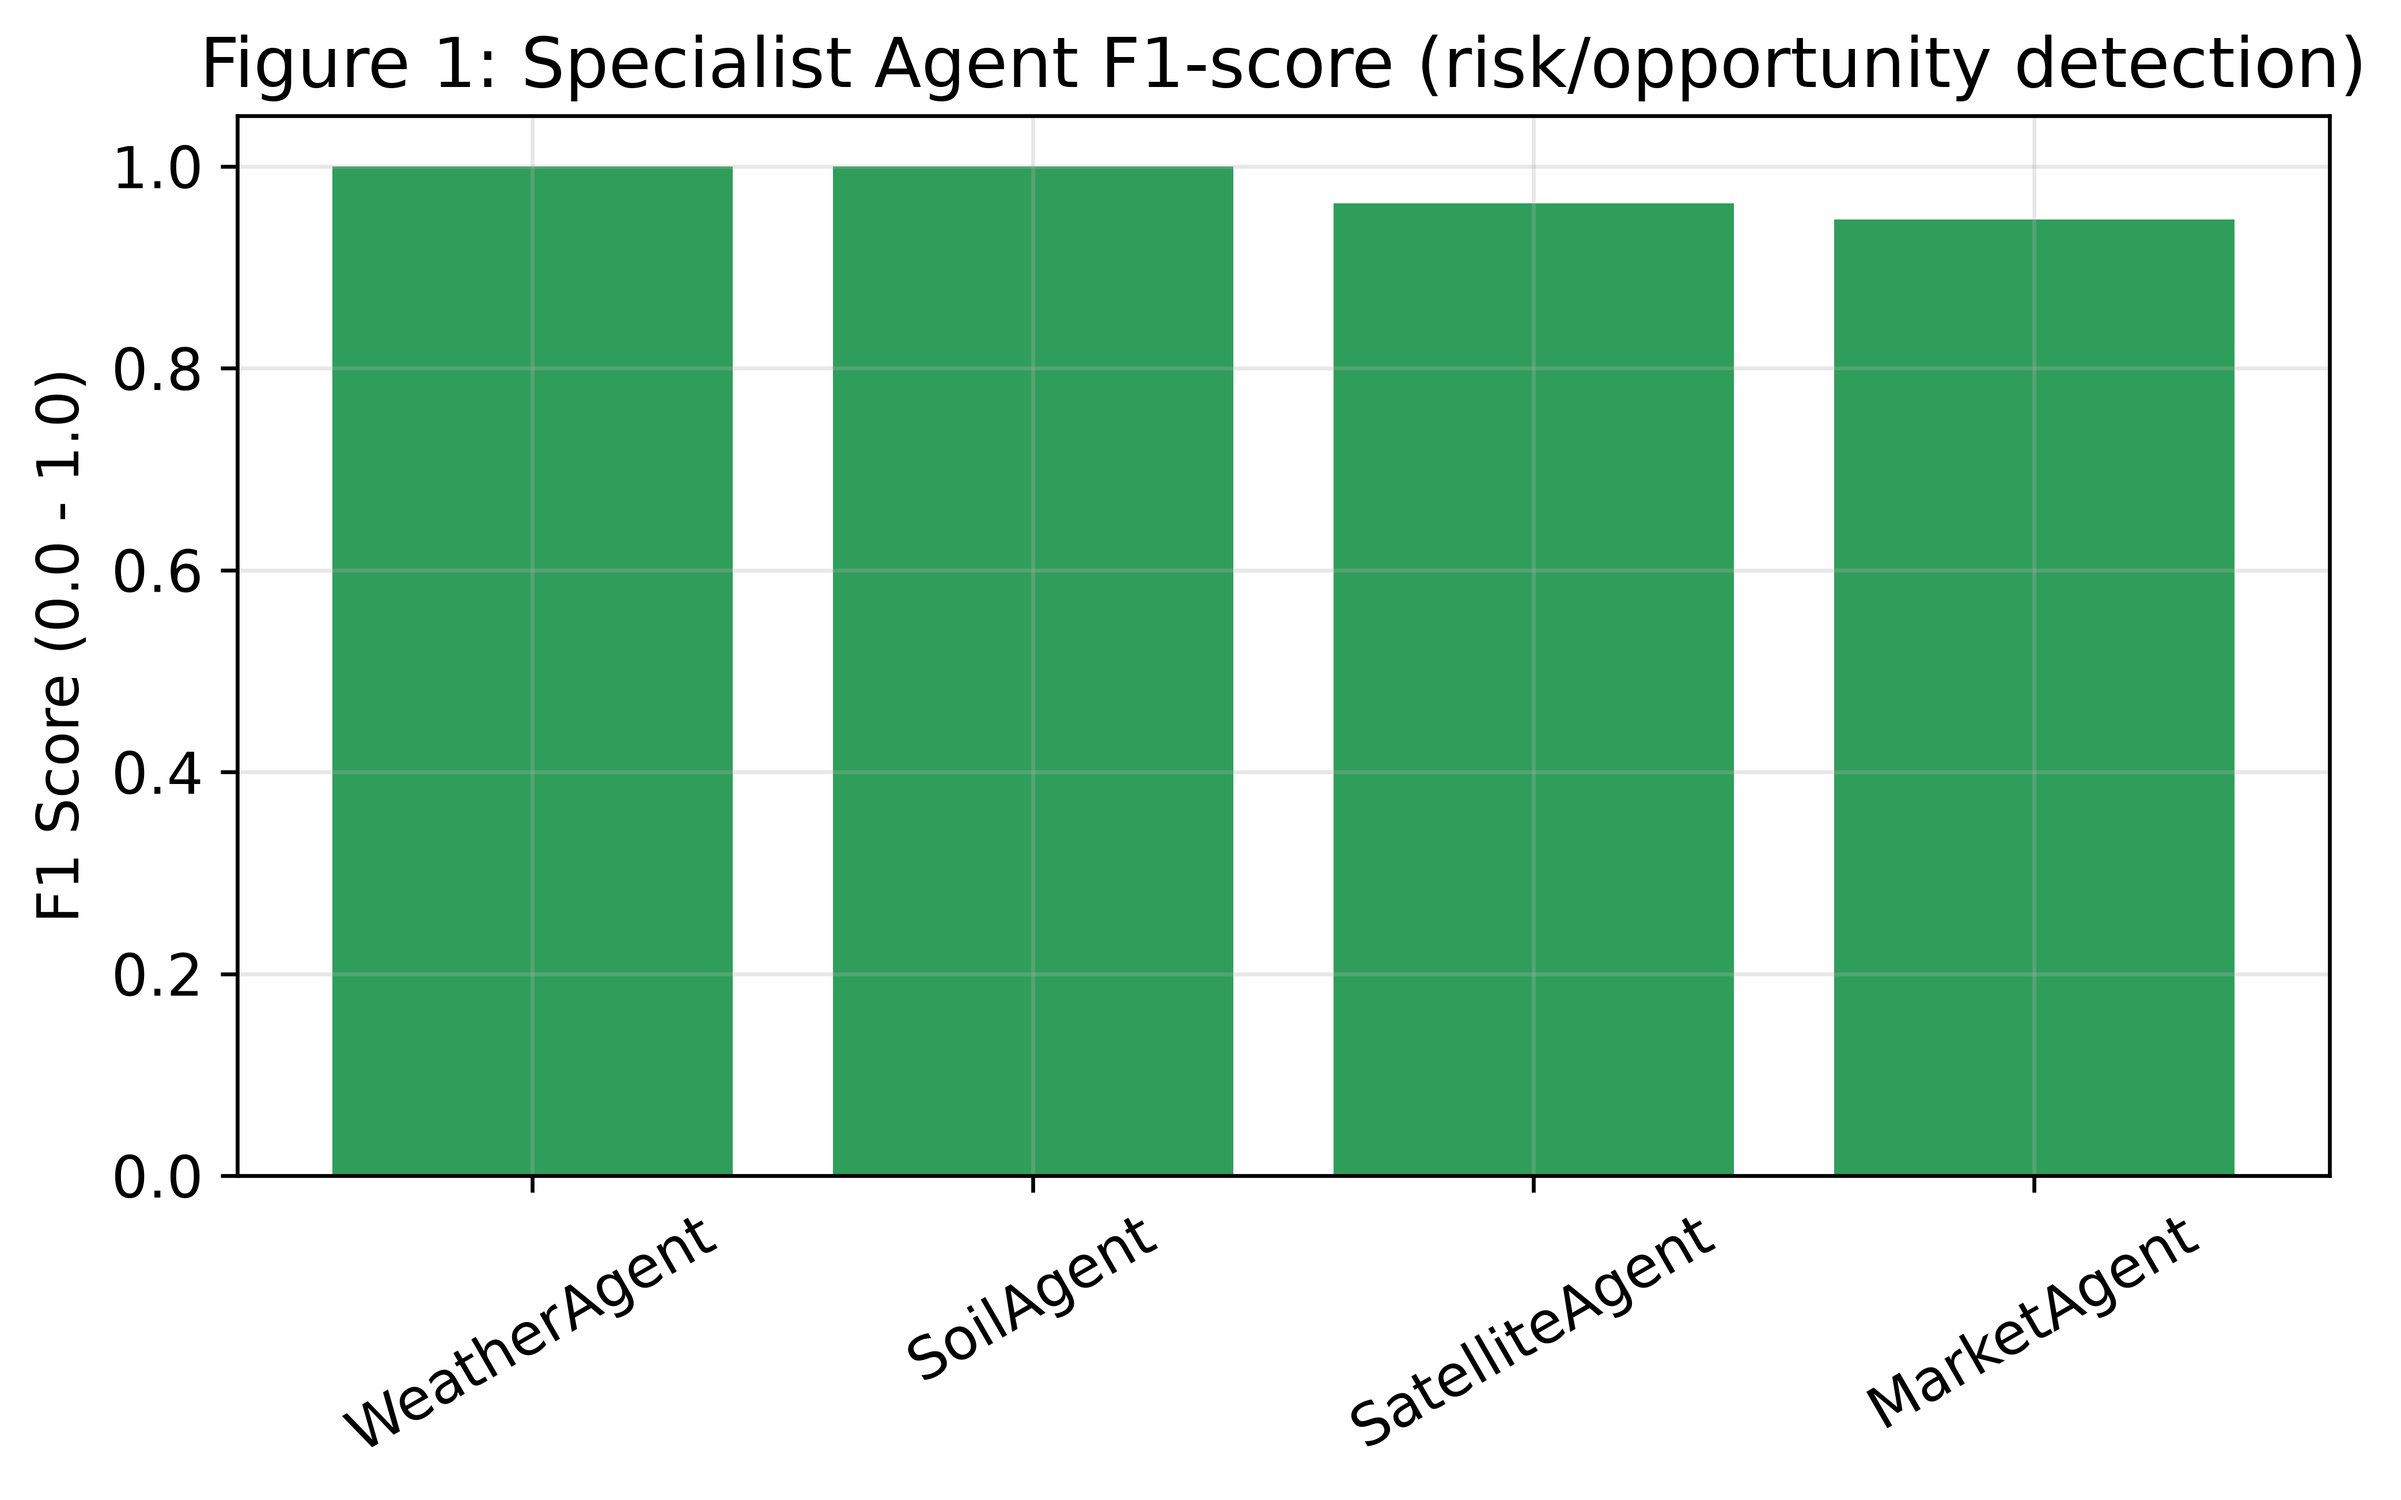
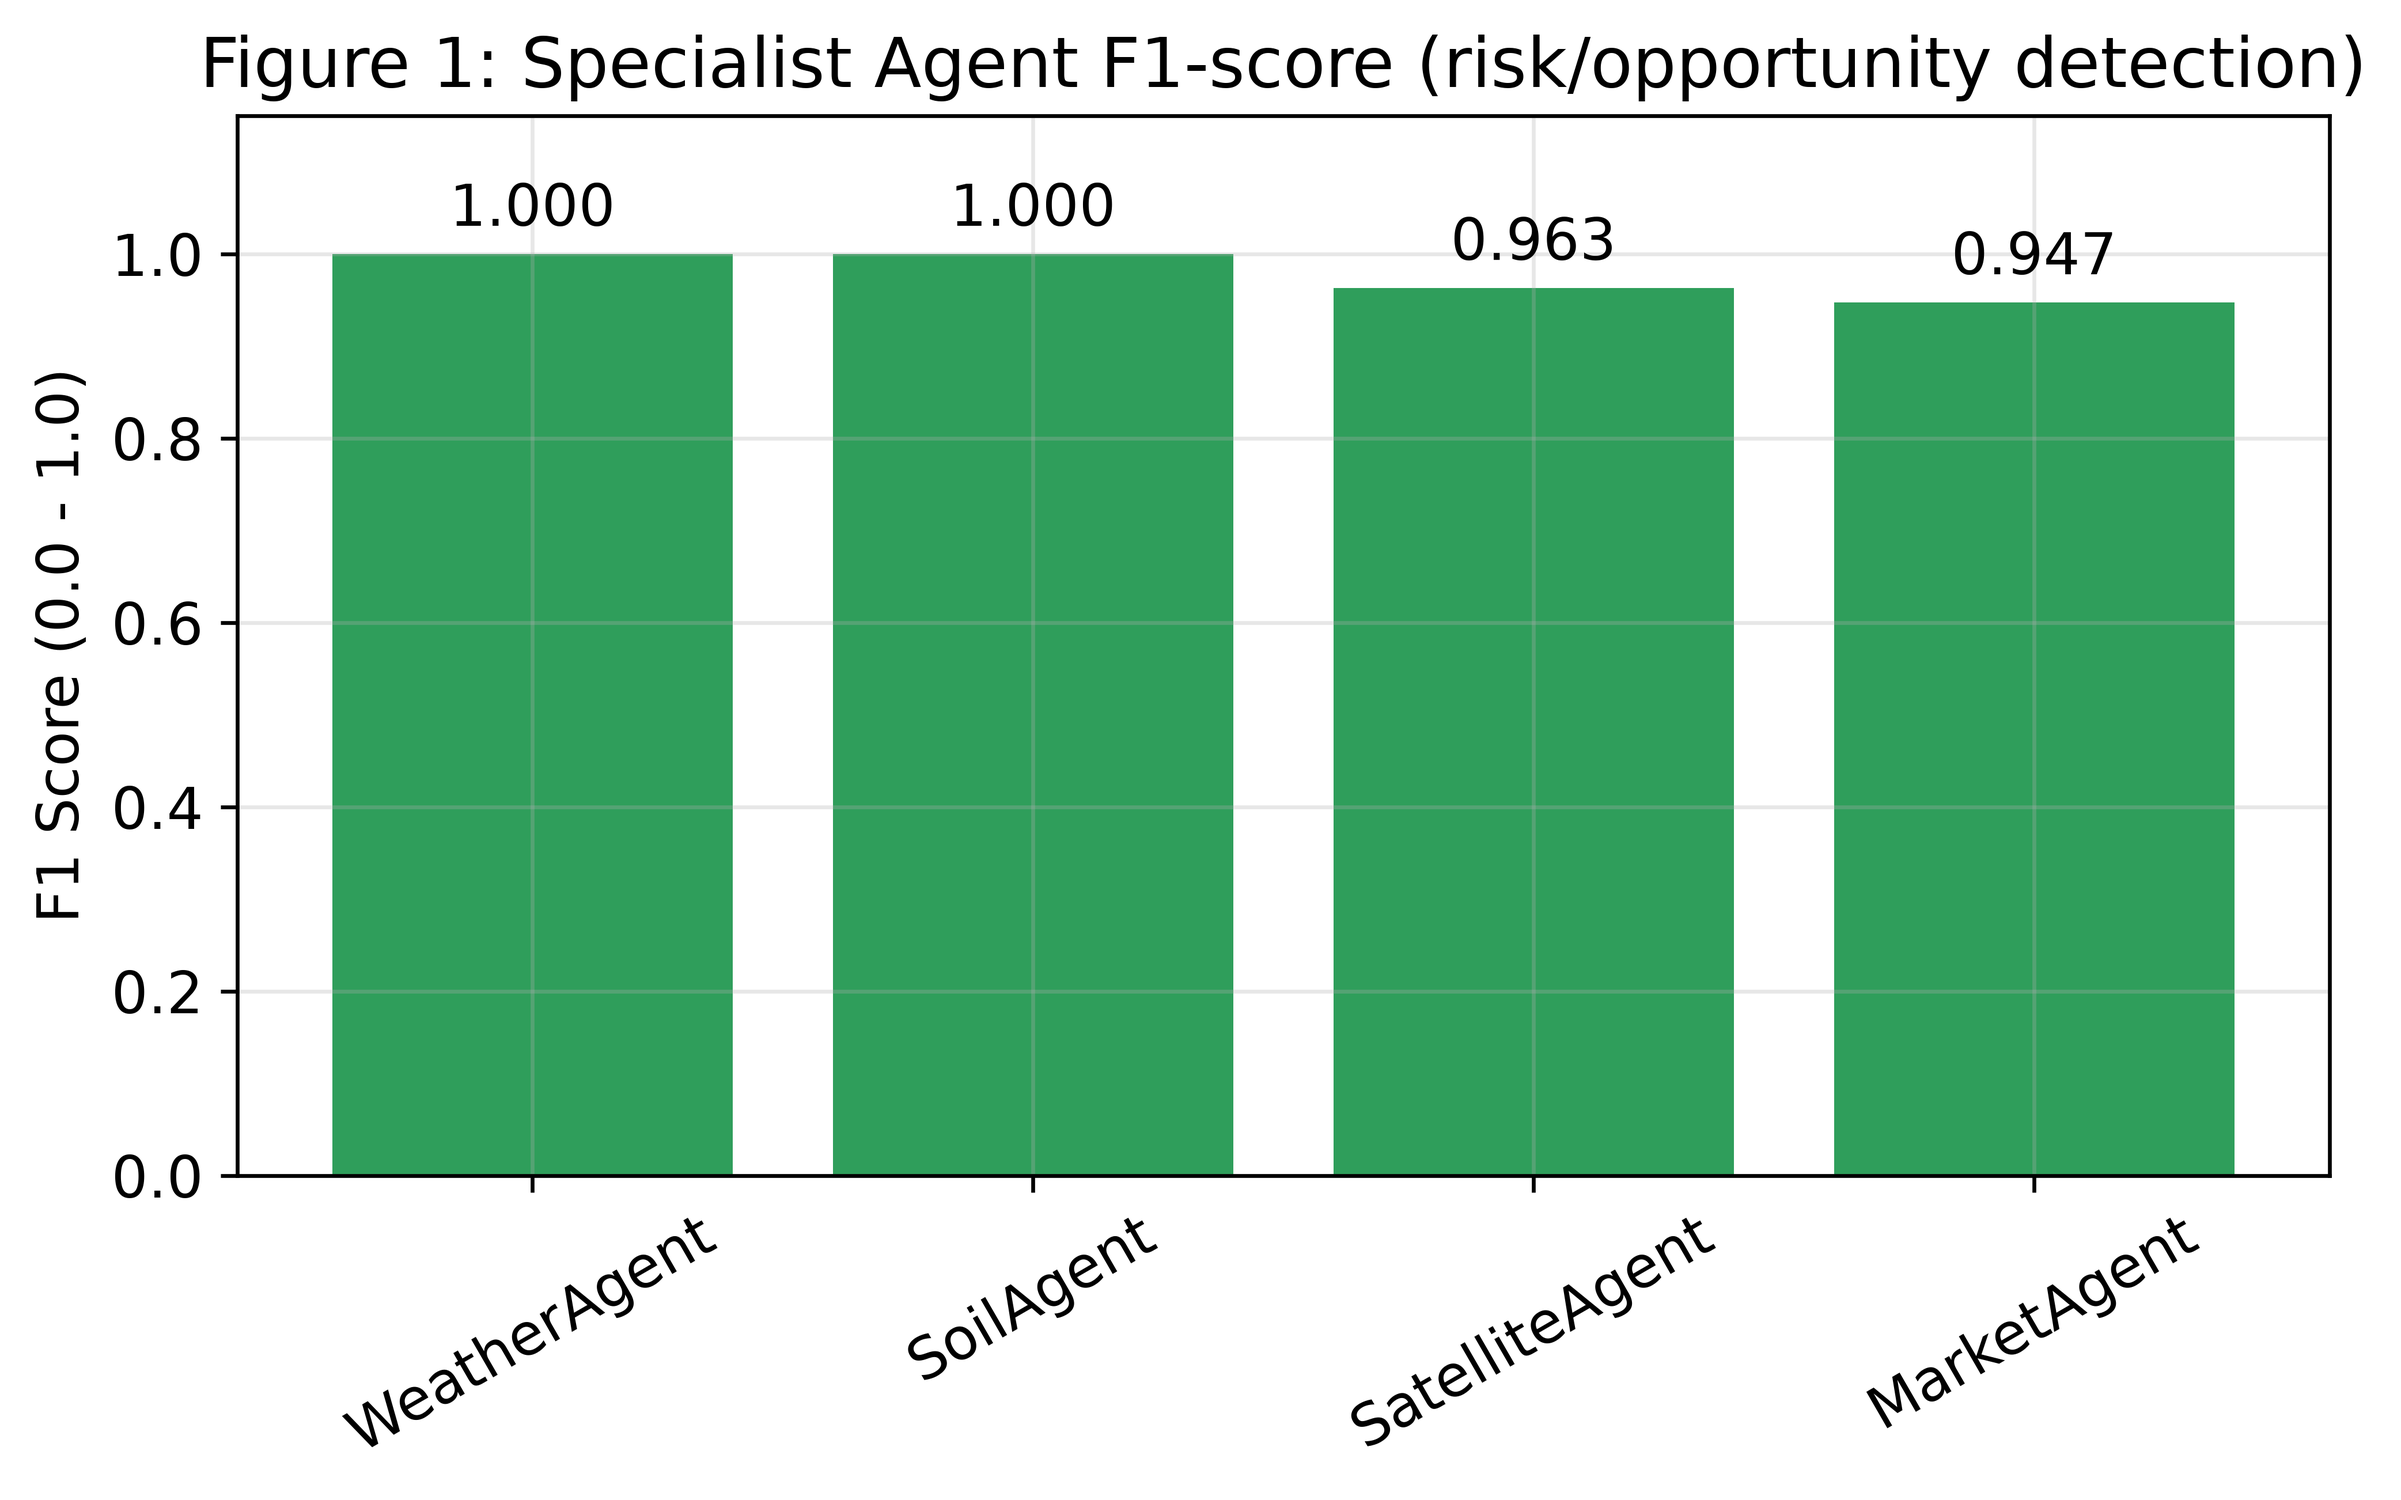
Restructure Section 4.2 into subsections, revise Table 4, add value labels to all bar charts, fix Figure 6 legend overlap, add failures table
- Section 4.2 (crop knowledge, acquisition, context fusion) split into
  4.2.1/4.2.2/4.2.3, one subsubsection per stage.
- Table 4 (ablation): removed Task Success column (100.0% for every
  condition per Table 1, no discriminative value across conditions);
  replaced with Mean Specialists Run, computed directly from the raw
  N=105 result files (1.00 / 3.07 / 3.10 / 3.11), which ties directly
  to the section's own "architecture drives the result" argument.
- All four bar charts (Figures 1, 2, 4, and 6/trust-calibration) now
  show the exact value above every bar via ax.bar_label().
- Figure 6's legend, which previously overlapped the tallest bars,
  moved inside extra headroom (ylim raised to 1.45, bars top out at
  1.0) rather than placed outside the axes, which collided with the
  title on the first attempt -- verified by an actual compile both
  times, not just visually assumed.
- Added Table 5 (tab:failures): the nine genuine (non-probe) wrong
  decisions at N=105, grouped by the three failure patterns Section
  6.4's prose already discusses, re-verified against the raw results
  before writing.

Verified via an actual tectonic compile: 26 pages, zero errors, zero
unresolved references/citations, 33/33 labels and 18/18 citations
resolve.

diff --git a/paper/Manuscript.tex b/paper/Manuscript.tex
@@ -520,6 +520,8 @@ pre-execution gate and a post-execution posterior update.}
 
 \subsection{Stage 1--3: crop knowledge, acquisition and context fusion}
 
+\subsubsection{Stage 1: crop knowledge}
+
 Stage 1 resolves a crop profile $P_c$ containing agronomic thresholds:
 optimal temperature, humidity, rainfall and soil pH ranges; NDVI/NDWI
 health thresholds; preferred texture, nitrogen and organic carbon levels.
@@ -527,8 +529,14 @@ Profiles are synthesised once by a language model against a fixed schema,
 validated against a canonical default, and cached in SQLite and JSON, so
 the cost is paid once per crop rather than once per request.
 
+\subsubsection{Stage 2: data acquisition}
+
 Stage 2 invokes the five collectors of Table~\ref{tab:sources}, each
-independently exception-isolated. Stage 3 merges their outputs into a
+independently exception-isolated.
+
+\subsubsection{Stage 3: context fusion}
+
+Stage 3 merges the five collectors' outputs into a
 single context $x$ deterministically---no language model participates---and
 computes an unweighted mean confidence over the sources that returned data.
 
@@ -724,17 +732,17 @@ corrected figures.
 
 \begin{table}[H]
 \centering
-\caption{Ablation across four architectural conditions on identical fixtures, all four now run on the full $N=105$ benchmark used throughout this paper. An earlier version of this study reported the ablation on an archived ten-scenario ($N=10$) run predating the dataset expansion; this table replaces it and is internally consistent with Table~\ref{tab:overall}. Recommendation quality is LLM-judged and was evaluated for condition 4 only this round (see text); it is reported as not available (N/A) rather than estimated for conditions 1--3.}
+\caption{Ablation across four architectural conditions on identical fixtures, all four now run on the full $N=105$ benchmark used throughout this paper. An earlier version of this study reported the ablation on an archived ten-scenario ($N=10$) run predating the dataset expansion; this table replaces it and is internally consistent with Table~\ref{tab:overall}. Mean specialists run counts specialist agents that actually completed per scenario (out of five), averaged over the benchmark; task success is omitted here as every condition reached 100.0\% (Table~\ref{tab:overall}), which carries no discriminative information across conditions. Recommendation quality is LLM-judged and was evaluated for condition 4 only this round (see text); it is reported as not available (N/A) rather than estimated for conditions 1--3.}
 \label{tab:ablation}
 \adjustbox{max width=\textwidth}{%
 \begin{tabular}{@{}lcccc@{}}
 \toprule
-\textbf{Condition} & \textbf{Task success} & \textbf{Rule-consist.} & \textbf{Rec.\ quality (1--5)} & \textbf{Mean latency (s)} \\
+\textbf{Condition} & \textbf{Mean specialists run} & \textbf{Rule-consist.} & \textbf{Rec.\ quality (1--5)} & \textbf{Mean latency (s)} \\
 \midrule
-1. Single agent, no fusion & 100.0\% & 13.3\% & N/A & 34.8 \\
-2. Multi-agent, deterministic merge & 100.0\% & 80.0\% & N/A & 88.2 \\
-3. Multi-agent + collaborative reasoning & 100.0\% & 81.9\% & N/A & 154.9 \\
-4. Full system + TRUSTAI & 100.0\% & 84.8\% & 3.86 & 215.7 \\
+1. Single agent, no fusion & 1.00 & 13.3\% & N/A & 34.8 \\
+2. Multi-agent, deterministic merge & 3.07 & 80.0\% & N/A & 88.2 \\
+3. Multi-agent + collaborative reasoning & 3.10 & 81.9\% & N/A & 154.9 \\
+4. Full system + TRUSTAI & 3.11 & 84.8\% & 3.86 & 215.7 \\
 \bottomrule
 \end{tabular}
 }
@@ -973,7 +981,35 @@ because \texttt{infer\_decision} has no pH branch and cannot express the
 correct answer. This is a known and documented gap, which is why the
 rate is reported both with and without such probes. The remaining nine
 are genuine defects, and --- as at $N=11$ --- they are not randomly
-distributed.
+distributed. Table~\ref{tab:failures} lists all nine, grouped by the
+three failure patterns discussed below.
+
+\begin{table}[H]
+\centering
+\caption{The nine genuine (non-probe) wrong decisions at $N=105$, grouped by failure pattern. None have been fixed in the codebase evaluated here.}
+\label{tab:failures}
+\adjustbox{max width=\textwidth}{%
+\begin{tabular}{@{}lp{6.0cm}p{3.4cm}p{3.4cm}@{}}
+\toprule
+\textbf{Pattern} & \textbf{Scenario} & \textbf{Ground truth} & \textbf{Actual decision} \\
+\midrule
+\multirow{5}{*}{Vegetation-detection defect}
+ & vegetation\_critical\_suitability\_cotton & Field Inspection & Immediate Irrigation \\
+ & vegetation\_critical\_suitability\_mango & Field Inspection & Continue Monitoring \\
+ & vegetation\_critical\_suitability\_orange & Field Inspection & Continue Monitoring \\
+ & vegetation\_critical\_suitability\_rice & Field Inspection & Continue Monitoring \\
+ & vegetation\_critical\_yield\_cotton & Field Inspection & Continue Monitoring \\
+\midrule
+Signal-precedence defect & compound\_water\_market\_apple & Immediate Irrigation & Prepare for Harvest and Selling \\
+\midrule
+\multirow{3}{*}{Negative-control / tomato-nitrogen anomaly}
+ & baseline\_normal\_tomato & Continue Monitoring & Apply Nitrogen Fertilizer \\
+ & baseline\_normal\_mango & Continue Monitoring & Field Inspection \\
+ & water\_stress\_suitability\_tomato & Immediate Irrigation & Apply Nitrogen Fertilizer \\
+\bottomrule
+\end{tabular}
+}
+\end{table}
 
 \paragraph{The vegetation-detection defect persists, and is now better
 characterised.} At $N=11$, one of two vegetation-critical scenarios

diff --git a/evaluation_latest/compute_and_report.py b/evaluation_latest/compute_and_report.py
@@ -283,11 +283,12 @@ def fig_agent_f1(agent_f1):
     agents = [a for a in AGENTS if agent_f1["per_agent"].get(a, {}).get("n_judged")]
     values = [agent_f1["per_agent"][a]["f1"] for a in agents]
     fig, ax = plt.subplots(figsize=(7, 4.5))
-    ax.bar(agents, values, color="#2f9e5b")
+    bars = ax.bar(agents, values, color="#2f9e5b")
     ax.set_ylabel("F1 Score (0.0 - 1.0)")
-    ax.set_ylim(0, 1.05)
+    ax.set_ylim(0, 1.15)
     ax.set_title("Figure 1: Specialist Agent F1-score (risk/opportunity detection)")
     ax.tick_params(axis="x", rotation=30)
+    ax.bar_label(bars, fmt="%.3f", padding=3)
     fig.tight_layout()
     fig.savefig(os.path.join(FIGURES_DIR, "fig1_agent_f1.png"), dpi=600)
     plt.close(fig)
@@ -298,10 +299,11 @@ def fig_overall_bars(tsr, da, routing, agent_f1):
     values = [tsr["value_pct"], da["value_pct"], routing["exact_match_rate_pct"],
               (agent_f1["macro_f1"] or 0) * 100]
     fig, ax = plt.subplots(figsize=(7, 4.5))
-    ax.bar(labels, values, color="#217a47")
+    bars = ax.bar(labels, values, color="#217a47")
     ax.set_ylabel("%")
-    ax.set_ylim(0, 105)
+    ax.set_ylim(0, 115)
     ax.set_title("Figure 2: Overall System Metrics")
+    ax.bar_label(bars, fmt="%.2f", padding=3)
     fig.tight_layout()
     fig.savefig(os.path.join(FIGURES_DIR, "fig2_overall_metrics.png"), dpi=600)
     plt.close(fig)
@@ -315,15 +317,22 @@ def fig_trust_vs_reliability(trust_cal):
     observed = [r["observed_reliability"] for r in rows]
     x = np.arange(len(agents))
     width = 0.35
-    fig, ax = plt.subplots(figsize=(8, 4.5))
-    ax.bar(x - width / 2, trust, width, label="TRUSTAI Trust Mean", color="#2f9e5b")
-    ax.bar(x + width / 2, observed, width, label="Observed Reliability", color="#2563a8")
+    fig, ax = plt.subplots(figsize=(8, 5.0))
+    bars1 = ax.bar(x - width / 2, trust, width, label="TRUSTAI Trust Mean", color="#2f9e5b")
+    bars2 = ax.bar(x + width / 2, observed, width, label="Observed Reliability", color="#2563a8")
     ax.set_xticks(x)
     ax.set_xticklabels(agents, rotation=30)
-    ax.set_ylim(0, 1.05)
+    ax.set_ylim(0, 1.45)
     ax.set_ylabel("Value")
     ax.set_title("Figure 3: TRUSTAI Trust Mean vs Observed Reliability")
-    ax.legend()
+    ax.bar_label(bars1, fmt="%.3f", padding=3, fontsize=8)
+    ax.bar_label(bars2, fmt="%.3f", padding=3, fontsize=8)
+    # Extra headroom above the tallest bars (ylim raised to 1.45 while
+    # every bar tops out at 1.0) gives the legend empty space to sit in,
+    # inside the axes, so it never overlaps a bar, a value label, or the
+    # title -- placing it outside the axes via bbox_to_anchor previously
+    # collided with the title instead.
+    ax.legend(loc="upper center", ncol=2, frameon=False)
     fig.tight_layout()
     fig.savefig(os.path.join(FIGURES_DIR, "fig3_trust_calibration.png"), dpi=600)
     plt.close(fig)
@@ -336,11 +345,13 @@ def fig_latency_by_stage(latency):
         agents = agents + ["TOTAL\nPIPELINE"]
         values = values + [latency["total_pipeline"]["mean"]]
     colors = ["#2f9e5b"] * (len(agents) - 1) + ["#b3352b"] if agents else []
-    fig, ax = plt.subplots(figsize=(8, 4.5))
-    ax.bar(agents, values, color=colors)
+    fig, ax = plt.subplots(figsize=(8, 4.8))
+    bars = ax.bar(agents, values, color=colors)
     ax.set_ylabel("Mean latency (s)")
     ax.set_title("Figure 4: Average Latency per Pipeline Stage")
     ax.tick_params(axis="x", rotation=30)
+    ax.set_ylim(0, max(values) * 1.15 if values else 1)
+    ax.bar_label(bars, fmt="%.1fs", padding=3, fontsize=8)
     fig.tight_layout()
     fig.savefig(os.path.join(FIGURES_DIR, "fig4_latency.png"), dpi=600)
     plt.close(fig)
